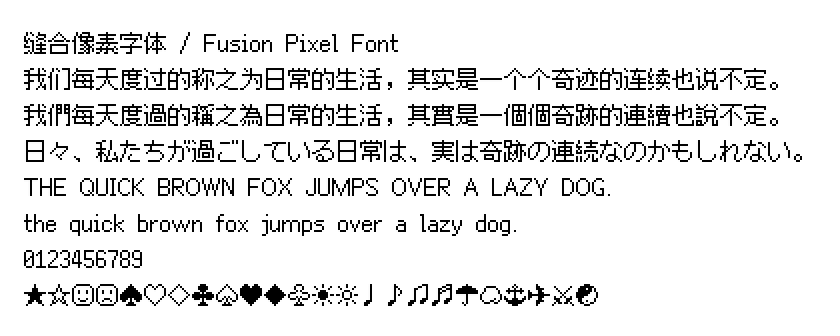
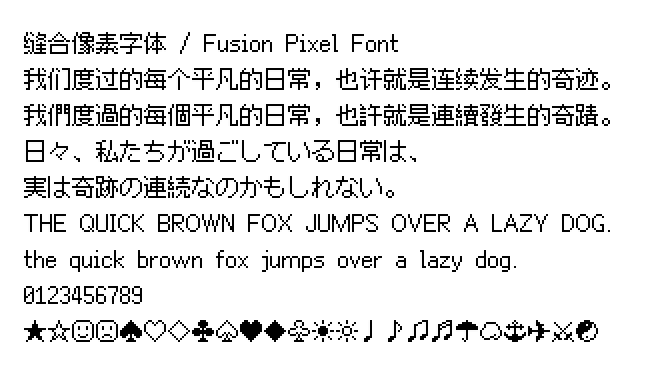
调整示例文案

Changed region(s): [[0.0309, 0.0893, 0.9568, 0.625], [0.0309, 0.625, 0.9259, 0.9226]]

diff --git a/assets/templates/index.html b/assets/templates/index.html
@@ -135,8 +135,8 @@
             <a class="link-tab" href="https://github.com/TakWolf/fusion-pixel-font" target="_blank">github</a>
         </div>
         <br>
-        <div class="text">我们每天度过的称之为日常的生活，其实是一个个奇迹的连续也说不定。</div>
-        <div class="text">我們每天度過的稱之為日常的生活，其實是一個個奇跡的連續也說不定。</div>
+        <div class="text">我们度过的每个平凡的日常，也许就是连续发生的奇迹。</div>
+        <div class="text">我們度過的每個平凡的日常，也許就是連續發生的奇蹟。</div>
         <div class="text">日々、私たちが過ごしている日常は、実は奇跡の連続なのかもしれない。</div>
         <div class="text">THE QUICK BROWN FOX JUMPS OVER A LAZY DOG.</div>
         <div class="text">the quick brown fox jumps over a lazy dog.</div>

diff --git a/services/image_service.py b/services/image_service.py
@@ -46,15 +46,16 @@ def _draw_text(
 def make_preview_image_file(font_config: FontConfig):
     font = _load_font(font_config, 'proportional')
 
-    image = Image.new('RGBA', (font_config.size * 35, font_config.size * 2 + font_config.line_height * 8), (255, 255, 255, 255))
+    image = Image.new('RGBA', (font_config.size * 27, font_config.size * 2 + font_config.line_height * 9), (255, 255, 255, 255))
     _draw_text(image, (font_config.size, font_config.size), '缝合像素字体 / Fusion Pixel Font', font)
-    _draw_text(image, (font_config.size, font_config.size + font_config.line_height), '我们每天度过的称之为日常的生活，其实是一个个奇迹的连续也说不定。', font)
-    _draw_text(image, (font_config.size, font_config.size + font_config.line_height * 2), '我們每天度過的稱之為日常的生活，其實是一個個奇跡的連續也說不定。', font)
-    _draw_text(image, (font_config.size, font_config.size + font_config.line_height * 3), '日々、私たちが過ごしている日常は、実は奇跡の連続なのかもしれない。', font)
-    _draw_text(image, (font_config.size, font_config.size + font_config.line_height * 4), 'THE QUICK BROWN FOX JUMPS OVER A LAZY DOG.', font)
-    _draw_text(image, (font_config.size, font_config.size + font_config.line_height * 5), 'the quick brown fox jumps over a lazy dog.', font)
-    _draw_text(image, (font_config.size, font_config.size + font_config.line_height * 6), '0123456789', font)
-    _draw_text(image, (font_config.size, font_config.size + font_config.line_height * 7), '★☆☺☹♠♡♢♣♤♥♦♧☀☼♩♪♫♬☂☁⚓✈⚔☯', font)
+    _draw_text(image, (font_config.size, font_config.size + font_config.line_height), '我们度过的每个平凡的日常，也许就是连续发生的奇迹。', font)
+    _draw_text(image, (font_config.size, font_config.size + font_config.line_height * 2), '我們度過的每個平凡的日常，也許就是連續發生的奇蹟。', font)
+    _draw_text(image, (font_config.size, font_config.size + font_config.line_height * 3), '日々、私たちが過ごしている日常は、', font)
+    _draw_text(image, (font_config.size, font_config.size + font_config.line_height * 4), '実は奇跡の連続なのかもしれない。', font)
+    _draw_text(image, (font_config.size, font_config.size + font_config.line_height * 5), 'THE QUICK BROWN FOX JUMPS OVER A LAZY DOG.', font)
+    _draw_text(image, (font_config.size, font_config.size + font_config.line_height * 6), 'the quick brown fox jumps over a lazy dog.', font)
+    _draw_text(image, (font_config.size, font_config.size + font_config.line_height * 7), '0123456789', font)
+    _draw_text(image, (font_config.size, font_config.size + font_config.line_height * 8), '★☆☺☹♠♡♢♣♤♥♦♧☀☼♩♪♫♬☂☁⚓✈⚔☯', font)
     image = image.resize((image.width * 2, image.height * 2), Image.NEAREST)
 
     fs_util.make_dirs(path_define.outputs_dir)
